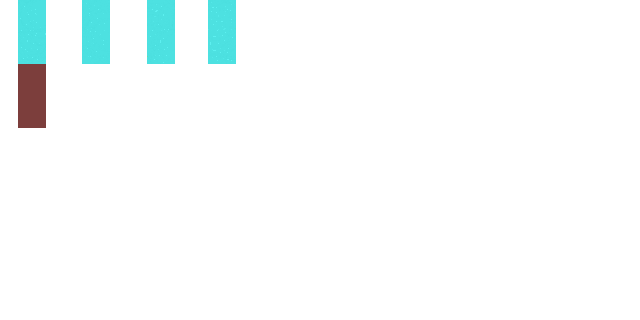
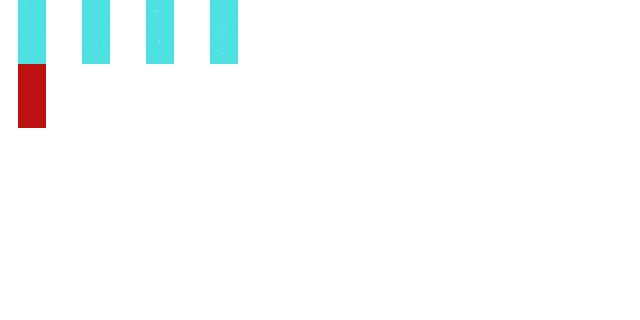
player health

Changed region(s): [[0.0312, 0.1875, 0.0938, 0.4062]]

diff --git a/GlassToast/src/application/Game.java b/GlassToast/src/application/Game.java
@@ -35,7 +35,8 @@ public class Game extends StackPane{
 	protected double height;
 	private HashSet<String> keyInput;
 	private TileGraphics canvas;
-	public StackPane hitBoxes,interactables,textBoxes,itemBoxes,equippedWeapon,inanimateEntities,characters,backCharacters,HUD;
+	public StackPane hitBoxes,interactables,textBoxes,itemBoxes,equippedWeapon,inanimateEntities,characters,backCharacters;
+	public PlayerHUD HUD;
 	public boolean showHitBoxes,gameOver;
 	public static double scaleX,scaleY;
 	private ArrayList<Sprite> sprites,removeSprites,addSprites;
@@ -43,7 +44,7 @@ public class Game extends StackPane{
 	private static final float timeStep = 0.0125f;
 	private float accumulatedTime = 0,previousTime = 0;
 	private static boolean newGameMade = false;
-	private boolean removeRequest = false,addRequest = false,initRun = true;
+	private boolean removeRequest = false,initRun = true;
 	
 	public void render() {	
 		ArrayList<Sprite> currentSprites = new ArrayList<Sprite>();
@@ -89,6 +90,7 @@ public class Game extends StackPane{
 	public void rescale() {
 		for(Sprite s:sprites)
 			s.rescale();
+		HUD.rescale();
 	}
 	
 	public void addSprite(Sprite s) {
@@ -216,7 +218,7 @@ public class Game extends StackPane{
 		backCharacters.setPrefWidth(width);
 		backCharacters.setPrefHeight(height);
 		
-		HUD = new StackPane();
+		HUD = new PlayerHUD();
 		HUD.setPrefWidth(width);
 		HUD.setPrefHeight(height);
 		
@@ -269,10 +271,11 @@ public class Game extends StackPane{
 			new Chest(200,20);
 			new Chest(-200,20);
 			new Chest(-130,20);	
+			/*
 			new EyeFactory(-150,-100);
 			new EyeFactory(150,-100);
 			new EyeFactory(-150,100);
-			new EyeFactory(150,100);
+			new EyeFactory(150,100);*/
 			
 			
 			renderer = new AnimationTimer() {
@@ -306,6 +309,7 @@ public class Game extends StackPane{
 						s.renderHitBox(showHitBoxes);
 						}
 					}
+					HUD.render();
 					
 						if(initRun)
 							initRun = false;

diff --git a/GlassToast/src/application/PlayerHUD.java b/GlassToast/src/application/PlayerHUD.java
@@ -1,7 +1,84 @@
 package application;
 
-import javafx.scene.Group;
+import application.sprites.Sprite;
+import javafx.animation.Timeline;
+import javafx.scene.layout.StackPane;
 
-public class PlayerHUD extends Group{
+public class PlayerHUD extends StackPane{
 	
+	public PlayerBars energy;
+	public PlayerBars health;
+	
+	
+	public PlayerHUD(){
+		energy = new PlayerBars(-280,80,"energy");
+		health = new PlayerBars(-260,80,"health");
+		
+		this.getChildren().add(energy.getImg());
+		this.getChildren().add(health.getImg());
+	}
+	
+	public void rescale() {
+		energy.rescale();
+		health.rescale();
+	}
+	
+	public void render() {
+		energy.render();
+		health.render();
+	}
+	
+	private class PlayerBars extends Sprite{
+
+		private String type;
+
+		public PlayerBars(double xcord, double ycord,String t) {
+			super(xcord, ycord);
+			width = 64;
+			height = 64;
+			scale = 3;
+			type = t;
+			img.setPreserveRatio(true);
+			setBaseSpriteSheet("PlayerBars.png",scale);
+			generateFramesFromType(type);
+			autoAnimate(0.1);
+			
+		}
+
+		public void generateFramesFromType(String n) {
+			generateFrameViewports(width*scale,4,1);
+			if(n.equals("energy"))
+				setAnimationCycle(0);
+			else
+				setAnimationCycle(1);
+		}
+		
+		@Override
+		public void rescale() {
+			
+			setBaseSpriteSheet("PlayerBars.png",scale);
+			generateFramesFromType(type);
+			
+			img.setScaleX(Game.scaleX*0.15);
+			img.setScaleY(Game.scaleY*0.75);
+			
+			
+		} 
+		
+		public void render() {
+			img.setTranslateX(x * Game.scaleX);
+			img.setTranslateY(y * Game.scaleY);
+		}
+
+		@Override
+		protected void setHitBox() {
+			return;
+		}
+
+		@Override
+		public void onCollide(Sprite s) {
+			return;
+		}
+		
+	}
 }
